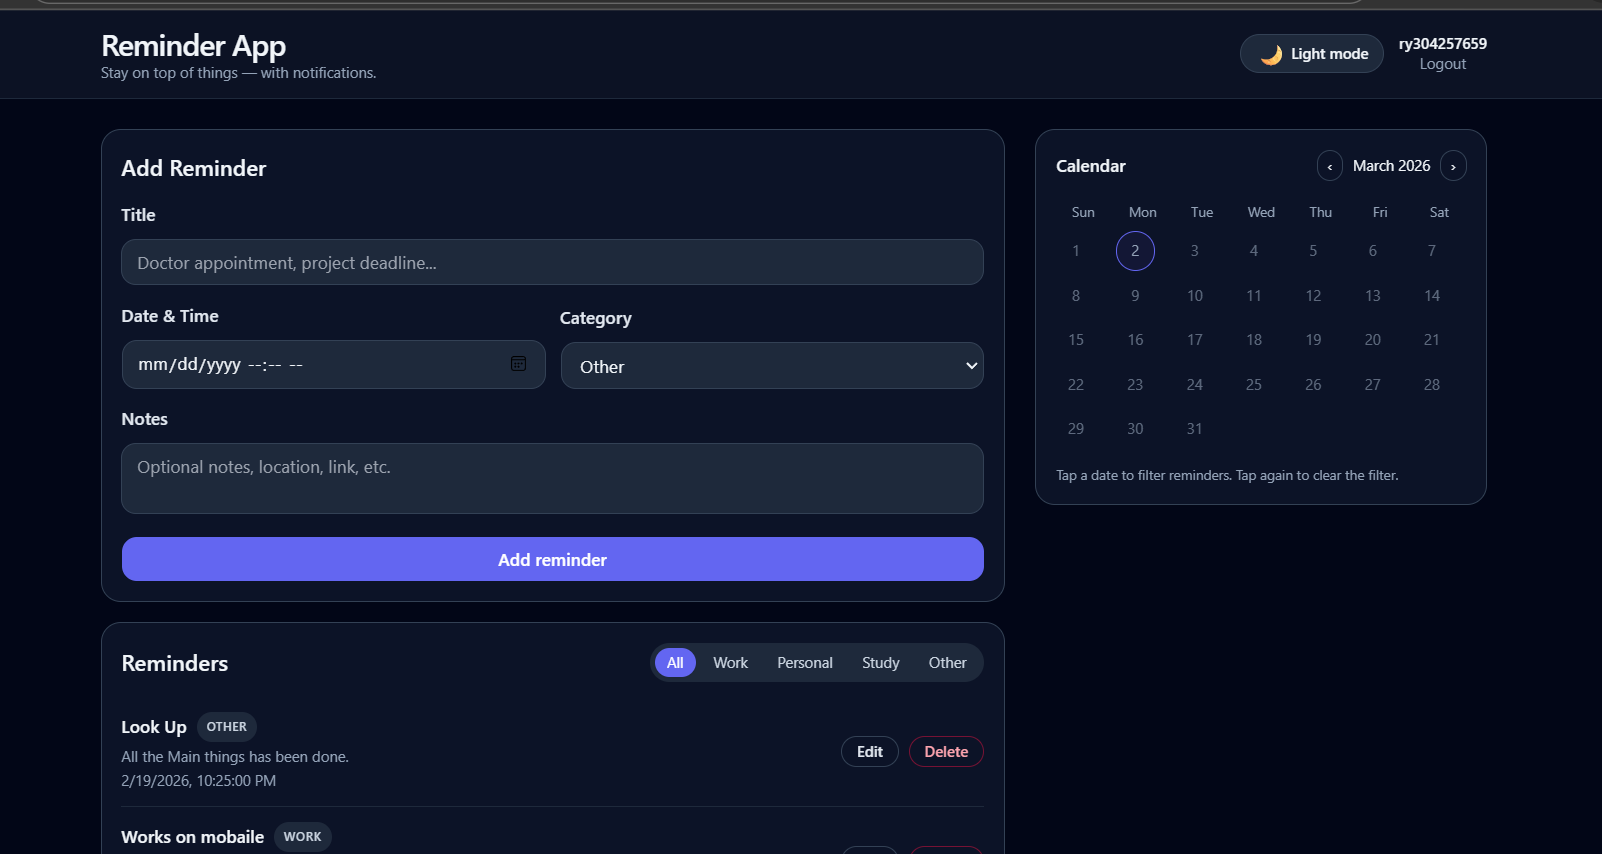
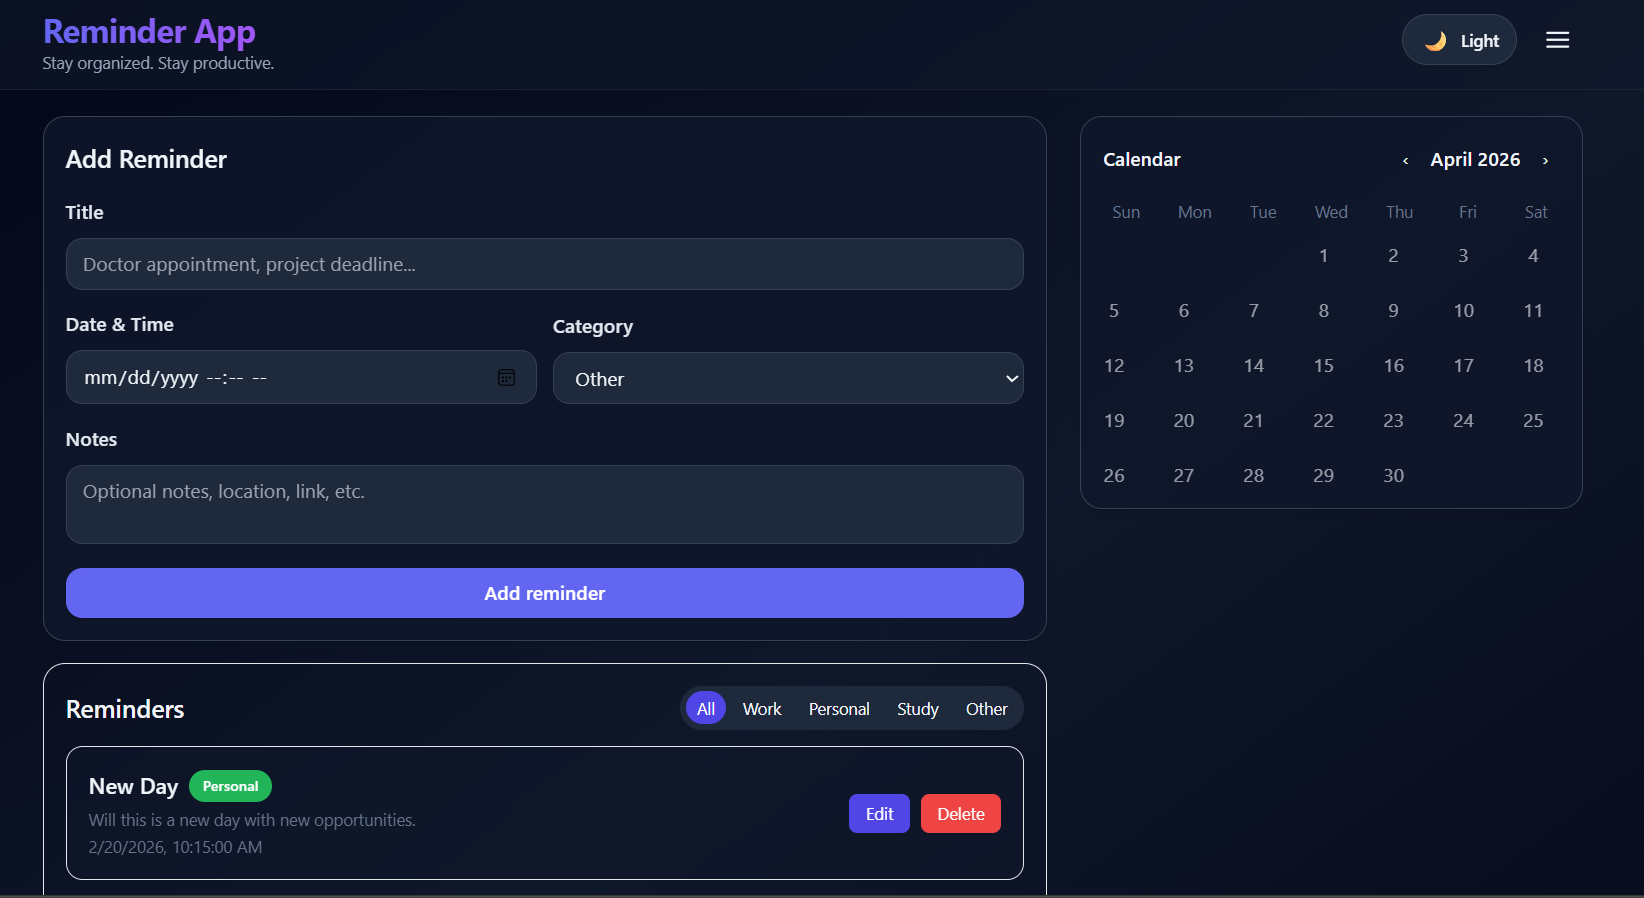
add new project

diff --git a/src/Data/Projects.jsx b/src/Data/Projects.jsx
@@ -5,41 +5,42 @@ const projects = [
     title: "Reminder App",
     description:
       "Reminder App is a full-stack MERN application that enables users to create, manage, and receive scheduled reminders with secure authentication via JWT and Google OAuth. The system exposes RESTful APIs for CRUD operations, leverages MongoDB for persistent storage, and integrates Firebase Cloud Messaging to deliver real-time push notifications. Background cron jobs handle automated reminder scheduling and execution.",
-    image: "/Projects/02.png",
+    image: "/Projects/01.png",
     tags: ["React.js", "Node.js", "Express.js", "MongoDB", "JWT", "Firebase", "Google OAuth"],
     github: "https://github.com/Rakesh-dev07/Reminder_app",
     live: "https://reminder-app-rho-eight.vercel.app",
     featured: false,
+  },
+   {
+    title: "FlowDesk — Multi-Tenant SaaS Project Management System",
+    description: "A production-ready full-stack SaaS application built with the MERN stack, featuring multi-tenant architecture, role-based access control (RBAC), project and task management, real-time status updates, and a modern responsive UI.",
+    tags: ["MERN Stack","Multi-Tenancy","RBAC","SaaS","React","Node.js","Express","MongoDB","JWT Auth","Tailwind CSS","REST API",],
+    image: "/Projects/lk.png",
+    github: "https://github.com/Rakesh-dev07/WorkFlow_saas",
+    live: "https://work-flow-saas.vercel.app",
+    featured: true,
   },
   {
     title: "Online Course Platform (MERN Stack)",
     description:
       "A full-stack Learning Management System (LMS) built using the MERN stack. Features PayPal Sandbox for secure payments and Cloudinary for video uploads. (Demo mode — no real transactions.)",
     image: "/Projects/Course.png",
-    tags: [
-      "React",
-      "Tailwind",
-      "Node.js",
-      "Express",
-      "MongoDB",
-      "PayPal API",
-      "Cloudinary",
-    ],
+    tags: ["React","Tailwind","Node.js","Express","MongoDB","PayPal API","Cloudinary"],
     github: "https://github.com/Rakesh-dev07/Online-course-platform",
     live: "https://onlinecourseplatform-one.vercel.app/",
     featured: true,
   },
 
-  {
-    title: "Bookstore App",
-    description:
-      "A full-featured digital bookstore where users can explore and purchase books with a smooth UI and admin management.",
-    image: "/Projects/bookstore.png",
-    tags: ["React", "JavaScript", "REST API", "CSS", "Node.js", "Express", "MongoDB"],
-    github: "https://github.com/Rakesh-dev07/Book-store-with-admin",
-    live: "https://book-store-with-admin-tau.vercel.app/",
-    featured: true,
-  },
+  //{
+  //   title: "Bookstore App",
+  //   description:
+  //     "A full-featured digital bookstore where users can explore and purchase books with a smooth UI and admin management.",
+  //   image: "/Projects/bookstore.png",
+  //   tags: ["React", "JavaScript", "REST API", "CSS", "Node.js", "Express", "MongoDB"],
+  //   github: "https://github.com/Rakesh-dev07/Book-store-with-admin",
+  //   live: "https://book-store-with-admin-tau.vercel.app/",
+  //   featured: true,
+  // },
 
   // {
   //   title: "Role-Playing Game (Dragon Repeller)",
@@ -49,7 +50,7 @@ const projects = [
   //   tags: ["HTML", "CSS", "JavaScript"],
   //   github: "https://github.com/Rakesh-dev07/Role-Playing-Game",
   //   live: "https://rakesh-dev07.github.io/Role-Playing-Game/",
-  //   featured: false,
+  //   featured: true,
   // },
 ];
 

diff --git a/src/components/ProjectCard.jsx b/src/components/ProjectCard.jsx
@@ -24,18 +24,13 @@ const ProjectCard = ({ project }) => {
     >
       {/* Left: Project Image */}
       <div className="lg:w-1/2 flex items-center justify-center">
-        <div className="w-full h-48 sm:h-56 md:h-64 lg:h-88 rounded-xl  overflow-hidden bg-cover">
-          <img
-            src={project.image}
-            alt={project.title}
-            loading="lazy"
-            className="
-              w-full h-full object-cover 
-              transition-transform duration-500 
-              hover:scale-105
-            "
-          />
-        </div>
+        <div className="w-full h-48 sm:h-56 md:h-64 lg:h-88 rounded-xl overflow-hidden bg-black flex items-center justify-center">
+  <img
+    src={project.image}
+    alt={project.title}
+    className="w-full h-full object-contain"
+  />
+</div>
       </div>
 
       {/* Right: Project Details */}